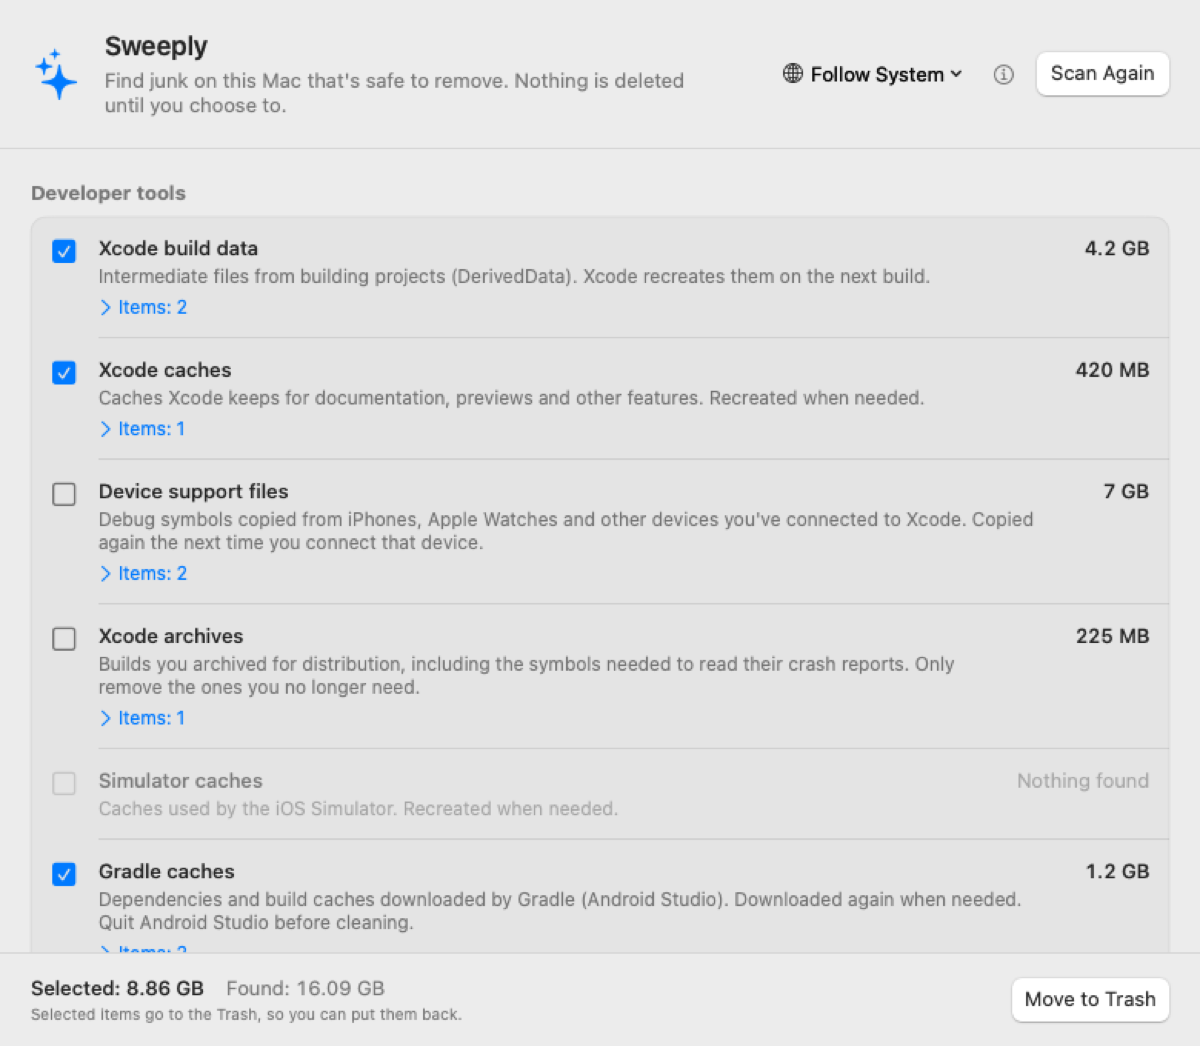
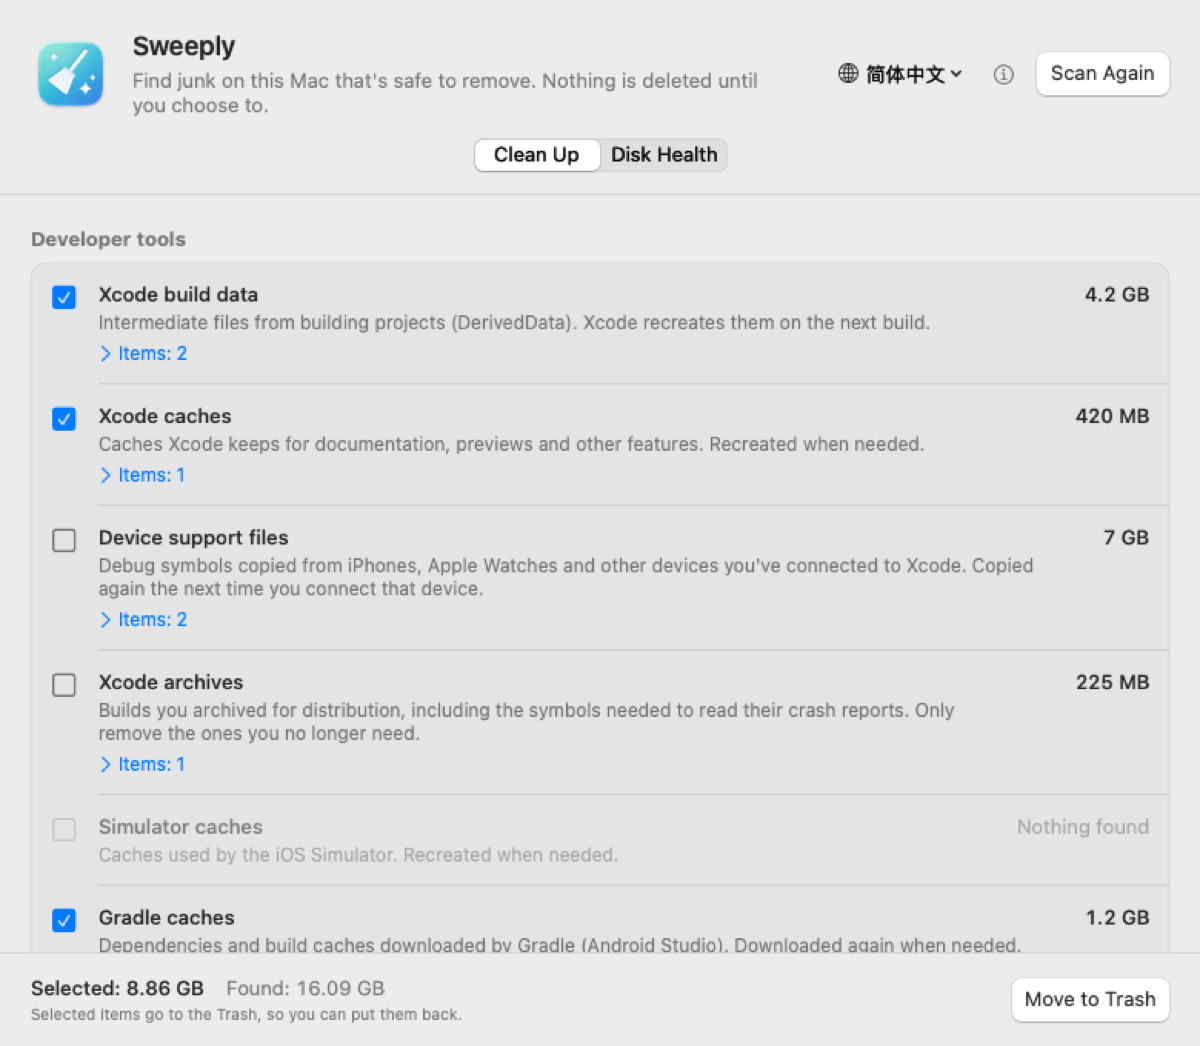
Read disk health on the main thread; add --disk-health for bug reports
Apple's NVMe SMART plug-in fails when created on a background thread, so
the Disk Health tab showed "unavailable" in the app while command-line
tests (which ran on the main thread) worked. readBuiltInDisk() is now
@MainActor (a read takes a few milliseconds). README gets Disk Health
screenshots.

diff --git a/Sources/Sweeply/DiskHealth.swift b/Sources/Sweeply/DiskHealth.swift
@@ -64,6 +64,10 @@ extension DiskHealth {
 
     /// Reads the built-in NVMe SSD. Returns nil when there is none that reports SMART data
     /// (for example older Macs with a SATA SSD).
+    ///
+    /// Main thread only: Apple's SMART plug-in fails when created on a background thread.
+    /// A read takes a few milliseconds.
+    @MainActor
     static func readBuiltInDisk() -> DiskHealth? {
         var iterator: io_iterator_t = 0
         guard IOServiceGetMatchingServices(kIOMainPortDefault, IOServiceMatching("IONVMeBlockStorageDevice"), &iterator) == KERN_SUCCESS else {
@@ -143,11 +147,7 @@ final class DiskHealthModel {
     }
 
     func refresh() {
-        if case .loading = state { return }
-        state = .loading
-        Task {
-            let health = await Task.detached(priority: .userInitiated) { DiskHealth.readBuiltInDisk() }.value
-            state = health.map(State.loaded) ?? .unavailable
-        }
+        // Runs on the main actor on purpose; see readBuiltInDisk().
+        state = DiskHealth.readBuiltInDisk().map(State.loaded) ?? .unavailable
     }
 }

diff --git a/Sources/Sweeply/SweeplyApp.swift b/Sources/Sweeply/SweeplyApp.swift
@@ -20,6 +20,16 @@ struct SweeplyApp: App {
 
 final class AppDelegate: NSObject, NSApplicationDelegate {
     func applicationDidFinishLaunching(_ notification: Notification) {
+        // Sweeply.app/Contents/MacOS/Sweeply --disk-health: print what Disk Health reads, for bug reports.
+        if CommandLine.arguments.contains("--disk-health") {
+            // Same path as the Disk Health tab.
+            MainActor.assumeIsolated {
+                let model = DiskHealthModel()
+                model.refresh()
+                if case let .loaded(health) = model.state { print(health) } else { print("Disk health unavailable") }
+            }
+            exit(0)
+        }
         // Sweeply.app/Contents/MacOS/Sweeply --snapshot <folder>
         if let flag = CommandLine.arguments.firstIndex(of: "--snapshot") {
             let folder = CommandLine.arguments.dropFirst(flag + 1).first ?? "."

diff --git a/README.md b/README.md
@@ -12,7 +12,7 @@ anything until you choose to.
   <img src="docs/screenshots/main-en-light.png" width="720" alt="Sweeply showing developer caches and their sizes">
 </p>
 
-> **Status: early preview (0.2).** Scans, and moves what you pick to the Trash.
+> **Status: early preview (0.3).** Scans, moves what you pick to the Trash, and shows your SSD's health.
 
 ## What it finds
 
@@ -30,6 +30,10 @@ anything until you choose to.
 **Disk Health** (new in 0.3)
 - How much has been written to your Mac's built-in SSD, how worn the drive thinks it
   is, its temperature, spare blocks and error counts — read straight from the drive.
+
+<p align="center">
+  <img src="docs/screenshots/disk-en-light.png" width="620" alt="Sweeply's Disk Health tab">
+</p>
 
 Each category explains what it is and whether it comes back. Expand it to see every
 folder, reveal it in Finder, or untick the ones you want to keep.
@@ -73,7 +77,8 @@ Requires Xcode (the Command Line Tools alone lack SwiftUI's macro plugins).
 python3 tools/check_localizations.py   # checks every translation
 ```
 
-`Sweeply.app/Contents/MacOS/Sweeply --snapshot <folder>` renders the window in every
+`Sweeply.app/Contents/MacOS/Sweeply --disk-health` prints what the Disk Health tab reads
+(handy for bug reports). `Sweeply.app/Contents/MacOS/Sweeply --snapshot <folder>` renders the window in every
 language, light and dark, using made-up results — handy for checking layouts and for
 screenshots.
 

diff --git a/README.zh-CN.md b/README.zh-CN.md
@@ -11,7 +11,7 @@
   <img src="docs/screenshots/main-zh-Hans-light.png" width="720" alt="Sweeply 显示开发工具缓存及大小">
 </p>
 
-> **状态：早期预览版（0.2）。** 扫描，并把你选中的项目移到废纸篓。
+> **状态：早期预览版（0.3）。** 扫描、把选中的项目移到废纸篓，还能查看固态硬盘的健康状况。
 
 ## 能找到什么
 
@@ -28,6 +28,10 @@
 
 **硬盘健康**（0.3 新增）
 - 这台 Mac 内置固态硬盘累计写入了多少、硬盘自己估算的磨损程度、温度、备用块和错误次数，直接从硬盘读取。
+
+<p align="center">
+  <img src="docs/screenshots/disk-zh-Hans-light.png" width="620" alt="Sweeply 的硬盘健康页">
+</p>
 
 每一类都会说明是什么、删了会不会自动重建。展开能看到每个文件夹，可以在访达中显示，也可以单独取消勾选想保留的。
 
@@ -67,6 +71,7 @@ English、简体中文、繁體中文、日本語、Русский、Español、
 python3 tools/check_localizations.py   # 检查所有翻译
 ```
 
+`Sweeply.app/Contents/MacOS/Sweeply --disk-health` 会打印硬盘健康页读到的数据（提交问题时有用）。
 `Sweeply.app/Contents/MacOS/Sweeply --snapshot <文件夹>` 会用虚构的扫描结果，把窗口在每种语言、
 浅色和深色下各画一张图，方便检查排版和做截图。
 

diff --git a/.github/ISSUE_TEMPLATE/bug_report.md b/.github/ISSUE_TEMPLATE/bug_report.md
@@ -15,3 +15,6 @@ labels: bug
 - macOS version:
 - Apple silicon or Intel:
 - Sweeply version (About Sweeply):
+
+**If it's about Disk Health**, paste the output of this Terminal command:
+`/Applications/Sweeply.app/Contents/MacOS/Sweeply --disk-health`
